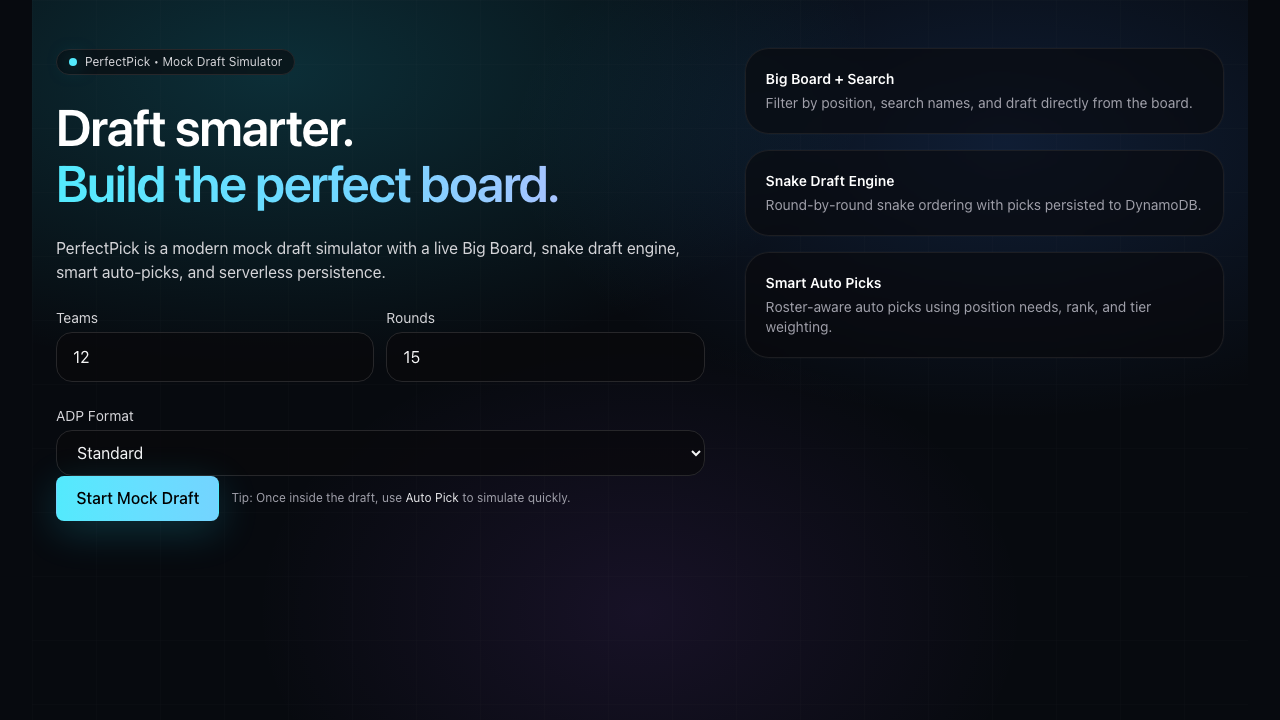
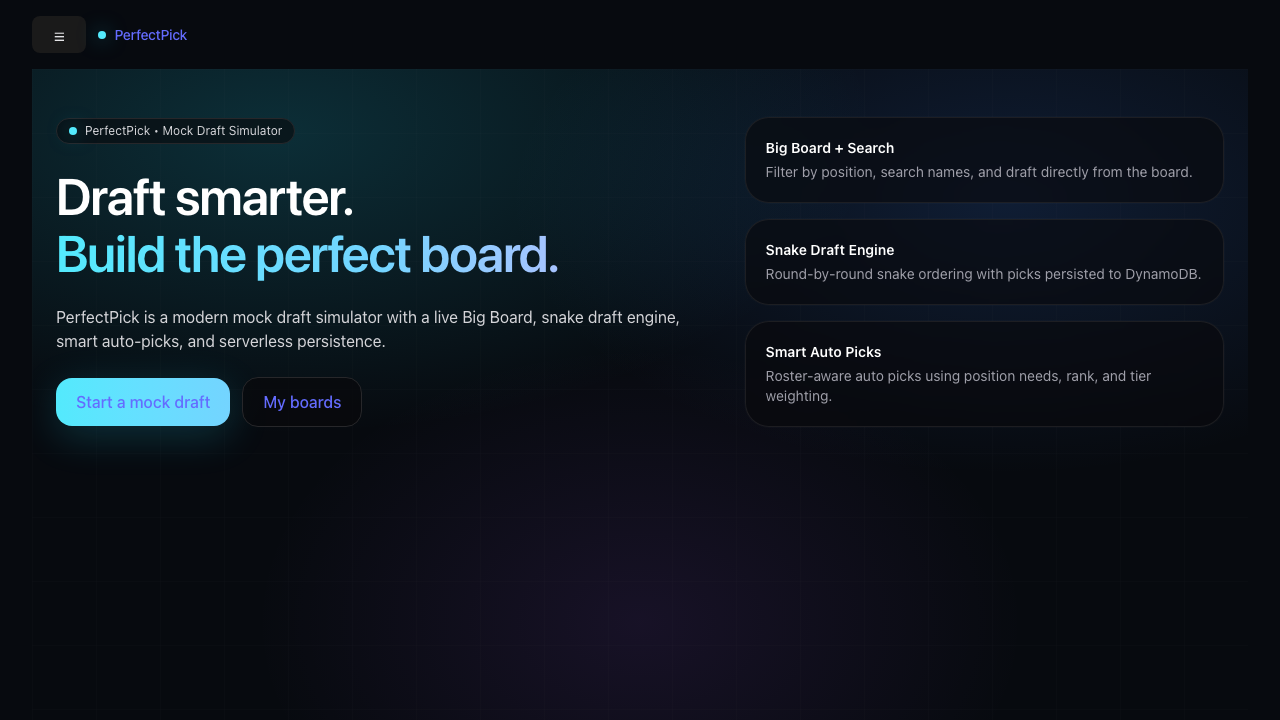
Render what the analysis already computed, and document every page
Three loose ends from the analysis branch.

tierCounts and rosterShape.extra were computed and unit-tested but never
rendered -- the module advertised a tier haul the page never showed, and
players who fit no roster slot were silently dropped. Both now appear.

The rank line lied mid-draft. Teams yet to pick score 0 and sort above
anyone negative, so an unstarted draft read "1 of 12". analyzeDraft now
reports whether a comparison is meaningful, requiring both equal pick
counts and at least one pick made -- with zero picks every team ties at
0, which is equal but says nothing. The page says ranking waits until
then rather than claiming a position.

Screenshots now cover all eight pages, not three. New Draft, Boards,
Board and the Analysis view had none, and drafts.png had been committed
without ever being displayed. The README shows all of them and its
Testing section no longer claims 30 tests across three pages.

Worth recording for whoever adds the next screenshot: fullPage is inert
in this app. The shell is h-dvh and the routes wrapper is the scroller,
so the document is always exactly viewport height and fullPage captures
nothing extra. Tall pages need a taller viewport instead.

Claude-Session: https://claude.ai/code/session_01SJLTpMzn3uNFFVdgw3uu3U

diff --git a/frontend/tests/analysis.spec.js b/frontend/tests/analysis.spec.js
@@ -1,6 +1,12 @@
 import { test, expect } from "@playwright/test";
 import { DRAFT_ID, makeCompletedDraft } from "./fixtures.js";
 
+import { fileURLToPath } from "url";
+import path from "path";
+
+const __dirname = path.dirname(fileURLToPath(import.meta.url));
+const SCREENSHOTS = path.resolve(__dirname, "../../screenshots");
+
 const API = "http://localhost:9999";
 
 async function openResults(page, draft = makeCompletedDraft(), query = "") {
@@ -168,4 +174,49 @@ test("an unrelated query parameter survives switching tabs", async ({ page }) =>
   await page.getByTestId("view-tab-picks").click();
   await expect(page).toHaveURL(/keep=me/);
   await expect(page).not.toHaveURL(/view=/);
+});
+
+test("the tier haul is shown", async ({ page }) => {
+  await openResults(page, makeCompletedDraft(), "?view=analysis");
+  // The fixture's first twelve players are all tier 1 or 2.
+  await expect(page.getByTestId("tier-haul")).toContainText("Tier 1");
+});
+
+test("players with no roster slot are named", async ({ page }) => {
+  const draft = makeCompletedDraft();
+  // One dedicated RB slot, but team 1 drafts three players -- two have nowhere
+  // to go, and the page should say so rather than silently dropping them.
+  draft.rosterSlots = ["RB"];
+  await openResults(page, draft, "?view=analysis");
+
+  await expect(page.getByTestId("roster-extra")).toBeVisible();
+});
+
+test("no rank is claimed while the teams have picked unequally", async ({ page }) => {
+  const draft = makeCompletedDraft();
+  // Strip team 2's picks so the pick counts are uneven.
+  draft.picks = draft.picks.filter((p) => p.team !== 2);
+  draft.completed = false;
+
+  await openResults(page, draft, "?view=analysis");
+  const panel = page.getByTestId("analysis-panel");
+
+  await expect(panel).toContainText(/Ranking waits until/i);
+  await expect(panel).not.toContainText(/of 4 in this draft/i);
+});
+
+test("a rank is claimed once every team has picked equally", async ({ page }) => {
+  await openResults(page, makeCompletedDraft(), "?view=analysis");
+  await expect(page.getByTestId("analysis-panel")).toContainText("4 of 4 in this draft");
+});
+
+test("screenshot — draft analysis", async ({ page }) => {
+  // The shell is h-dvh and the routes wrapper scrolls, so the document is
+  // always viewport height and fullPage captures nothing extra. Grow the
+  // viewport instead.
+  await page.setViewportSize({ width: 1280, height: 1010 });
+  await openResults(page, makeCompletedDraft(), "?view=analysis");
+  await expect(page.getByTestId("analysis-panel")).toBeVisible();
+
+  await page.screenshot({ path: `${SCREENSHOTS}/analysis.png`, fullPage: false });
 });

diff --git a/frontend/src/pages/Results.jsx b/frontend/src/pages/Results.jsx
@@ -245,8 +245,10 @@ export default function Results() {
                 </span>
               </div>
               <div className="mt-1 text-sm text-zinc-400">
-                {a.you.rank} of {a.teams.length} in this draft. Positive means players
-                fell to you; negative means you reached.
+                {a.comparable
+                  ? `${a.you.rank} of ${a.teams.length} in this draft. `
+                  : "Ranking waits until every team has had the same number of picks. "}
+                Positive means players fell to you; negative means you reached.
               </div>
               {a.scoreable.without > 0 && (
                 <div data-testid="unscoreable-note" className="mt-2 text-xs text-zinc-500">
@@ -296,7 +298,30 @@ export default function Results() {
                   Unfilled: {a.you.rosterShape.unfilled.join(", ")}
                 </div>
               )}
+              {a.you.rosterShape.extra.length > 0 && (
+                <div data-testid="roster-extra" className="mt-1 text-xs text-zinc-500">
+                  No slot for:{" "}
+                  {a.you.rosterShape.extra
+                    .map((e) => `${e.count} ${e.position}`)
+                    .join(", ")}
+                </div>
+              )}
             </div>
+
+            {Object.keys(a.you.tierCounts).length > 0 && (
+              <div data-testid="tier-haul" className="rounded-3xl border border-zinc-800 bg-zinc-950/60 p-5">
+                <div className="text-sm text-zinc-400">Tier haul</div>
+                <div className="mt-2 flex flex-wrap gap-2">
+                  {Object.entries(a.you.tierCounts)
+                    .sort(([x], [y]) => Number(x) - Number(y))
+                    .map(([tier, count]) => (
+                      <span key={tier} className="rounded-2xl border border-zinc-800 px-3 py-1 text-xs text-zinc-300">
+                        Tier {tier}: <span className="font-medium text-zinc-100">{count}</span>
+                      </span>
+                    ))}
+                </div>
+              </div>
+            )}
 
             {a.you.longestWait && (
               <div className="rounded-3xl border border-zinc-800 bg-zinc-950/60 p-5">

diff --git a/frontend/tests/board.spec.js b/frontend/tests/board.spec.js
@@ -1,5 +1,11 @@
 import { test, expect } from "@playwright/test";
 import { BOARD_ID, makeBoardState } from "./fixtures.js";
+import { fileURLToPath } from "url";
+import path from "path";
+
+const __dirname = path.dirname(fileURLToPath(import.meta.url));
+const SCREENSHOTS = path.resolve(__dirname, "../../screenshots");
+
 
 async function mockBoard(page, state, { onSave } = {}) {
   await page.route(`**/boards/${BOARD_ID}`, async (route) => {
@@ -177,4 +183,36 @@ test("a successful save clears a stale conflict notice", async ({ page }) => {
 
   await expect(page.getByTestId("save-status")).toContainText("Saved", { timeout: 5000 });
   await expect(page.getByText("changed elsewhere")).toHaveCount(0);
+});
+
+test("screenshot — board editor", async ({ page }) => {
+  // The shell is h-dvh and the routes wrapper scrolls, so the document is
+  // always viewport height and fullPage captures nothing extra. Grow the
+  // viewport instead.
+  await page.setViewportSize({ width: 1280, height: 1010 });
+  await mockBoard(page, makeBoardState());
+  await page.goto(`/board/${BOARD_ID}`);
+  await expect(page.getByTestId("board-row").first()).toBeVisible();
+
+  await page.screenshot({ path: `${SCREENSHOTS}/board.png`, fullPage: false });
+});
+
+test("screenshot — boards list", async ({ page }) => {
+  await page.goto("/");
+  await page.evaluate(
+    (id) =>
+      localStorage.setItem(
+        "perfectpick.myBoards",
+        JSON.stringify([
+          { id, name: "My PPR Board", format: "ppr", updatedAt: Date.now() },
+          { id: "b2", name: "Standard Sleepers", format: "standard", updatedAt: Date.now() - 90000 },
+        ])
+      ),
+    BOARD_ID
+  );
+
+  await page.goto("/boards");
+  await expect(page.getByTestId("board-list")).toBeVisible();
+
+  await page.screenshot({ path: `${SCREENSHOTS}/boards.png`, fullPage: false });
 });

diff --git a/frontend/src/lib/draftAnalysis.test.js b/frontend/src/lib/draftAnalysis.test.js
@@ -258,3 +258,25 @@ test("a genuinely missing dedicated position is still reported unfilled", () => 
   assert.deepStrictEqual(shape.unfilled, ["TE"]);
   assert.deepStrictEqual(shape.extra, []);
 });
+
+// --- Is a rank comparison meaningful yet? --------------------------------
+
+test("a rank is comparable when every team has picked the same number of times", () => {
+  const d = draftWith([
+    pick(1, 1, player("a", { adp: 5 })),
+    pick(2, 2, player("b", { adp: 5 })),
+  ]);
+  assert.strictEqual(analyzeDraft(d).comparable, true);
+});
+
+test("a rank is not comparable when one team has picked more than another", () => {
+  // Team 2 has not picked yet, so it sits on 0 and outranks team 1's -4.5 --
+  // "1 of 2" would be a lie about a draft nobody has really started.
+  const d = draftWith([pick(1, 1, player("a", { adp: 5.5 }))]);
+  assert.strictEqual(analyzeDraft(d).comparable, false);
+});
+
+test("a draft where nobody has picked is not comparable", () => {
+  const d = draftWith([pick(1, 1, null), pick(2, 2, null)]);
+  assert.strictEqual(analyzeDraft(d).comparable, false);
+});

diff --git a/frontend/tests/newdraft.spec.js b/frontend/tests/newdraft.spec.js
@@ -1,6 +1,12 @@
 import { test, expect } from "@playwright/test";
 import { DRAFT_ID } from "./fixtures.js";
 
+import { fileURLToPath } from "url";
+import path from "path";
+
+const __dirname = path.dirname(fileURLToPath(import.meta.url));
+const SCREENSHOTS = path.resolve(__dirname, "../../screenshots");
+
 const API = "http://localhost:9999";
 
 test.describe("New Draft page", () => {
@@ -46,4 +52,11 @@ test.describe("New Draft page", () => {
 
     await expect(page.getByText(/Server error|Failed to create draft/i)).toBeVisible();
   });
+});
+
+test("screenshot — new draft", async ({ page }) => {
+  await page.goto("/draft/new");
+  await expect(page.getByLabel("Teams")).toBeVisible();
+
+  await page.screenshot({ path: `${SCREENSHOTS}/newdraft.png`, fullPage: false });
 });

diff --git a/frontend/src/lib/draftAnalysis.js b/frontend/src/lib/draftAnalysis.js
@@ -58,8 +58,18 @@ export function analyzeDraft(draft) {
 
   const yours = teams.find((t) => t.team === userTeam) || null;
 
+  // A rank is only meaningful when every team has had the same number of
+  // picks. Mid-draft, a team yet to pick scores 0 and sorts above anyone
+  // negative, so an unstarted draft would read "1 of 12".
+  // ...and only once somebody has actually picked: with zero picks every team
+  // ties at 0, which is equal but says nothing.
+  const counts = teams.map((t) => t.picks.length);
+  const comparable =
+    counts.length > 0 && counts[0] > 0 && counts.every((c) => c === counts[0]);
+
   return {
     scoreable,
+    comparable,
     teams,
     you: yours
       ? {

diff --git a/README.md b/README.md
@@ -6,14 +6,29 @@ PerfectPick is a modern, serverless fantasy football mock draft simulator. Confi
 
 ## Screenshots
 
-### Home Page
+### Home
 ![Home](screenshots/home.png)
+
+### New Draft
+![New Draft](screenshots/newdraft.png)
 
 ### Live Draft Board
 ![Draft](screenshots/draft.png)
 
 ### Draft Results
 ![Results](screenshots/results.png)
+
+### Draft Analysis
+![Analysis](screenshots/analysis.png)
+
+### My Drafts
+![My Drafts](screenshots/drafts.png)
+
+### My Boards
+![Boards](screenshots/boards.png)
+
+### Board Editor
+![Board](screenshots/board.png)
 
 ---
 
@@ -129,15 +144,17 @@ npm run test:headed   # run with a visible browser
 npm run test:ui       # open the Playwright interactive UI
 ```
 
-The suite covers 30 tests across three pages:
+Three suites run against this project:
 
-| Suite | Tests |
-|-------|-------|
-| Home page | Rendering, form defaults, navigation, error handling |
-| Draft page | Big Board, search/filter, pick, auto-pick, sim, timer, pause |
-| Results page | Pick log, rosters, share link, CSV/JSON export, navigation |
+| Suite | Command | What it covers |
+|-------|---------|----------------|
+| Backend unit | `cd backend/src && npm test` | Handlers, response shaping, gzip negotiation, DynamoDB pagination, roster and snake logic |
+| Frontend unit | `cd frontend && npm run test:unit` | Pure modules — board ordering, draft analysis, the local registries, Sleeper mapping |
+| End-to-end | `cd frontend && npm test` | Every page, driven through a real browser with the API mocked at the route level |
 
-Screenshots are written to `screenshots/` on each test run.
+Screenshots are written to `screenshots/` on each end-to-end run, and the images
+above come from that suite. When a change alters what a page looks like, rerun the
+suite and commit the updated image so this README keeps matching the app.
 
 ---
 
